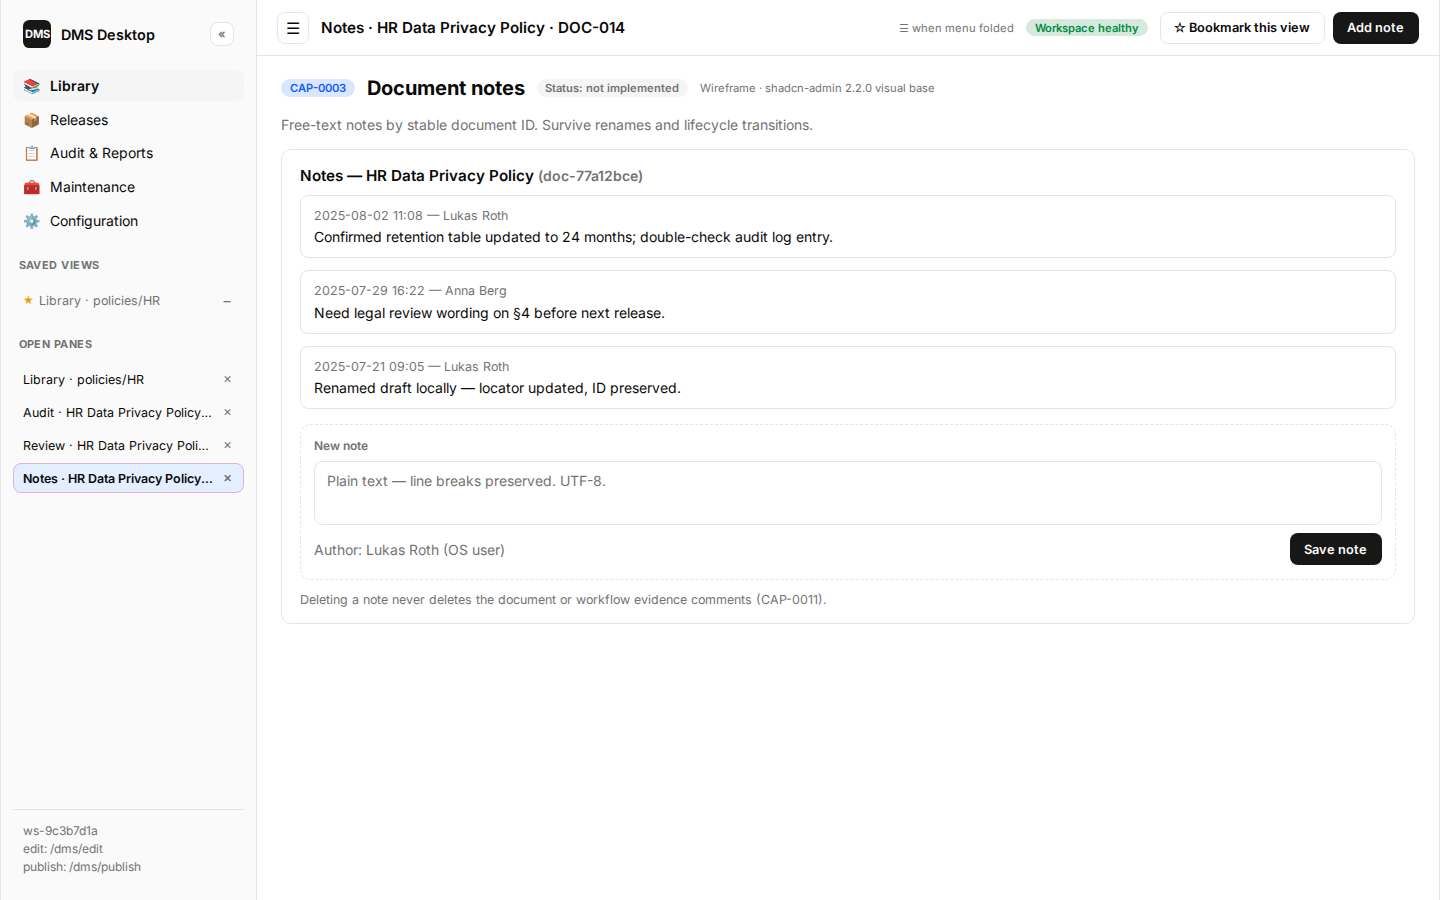
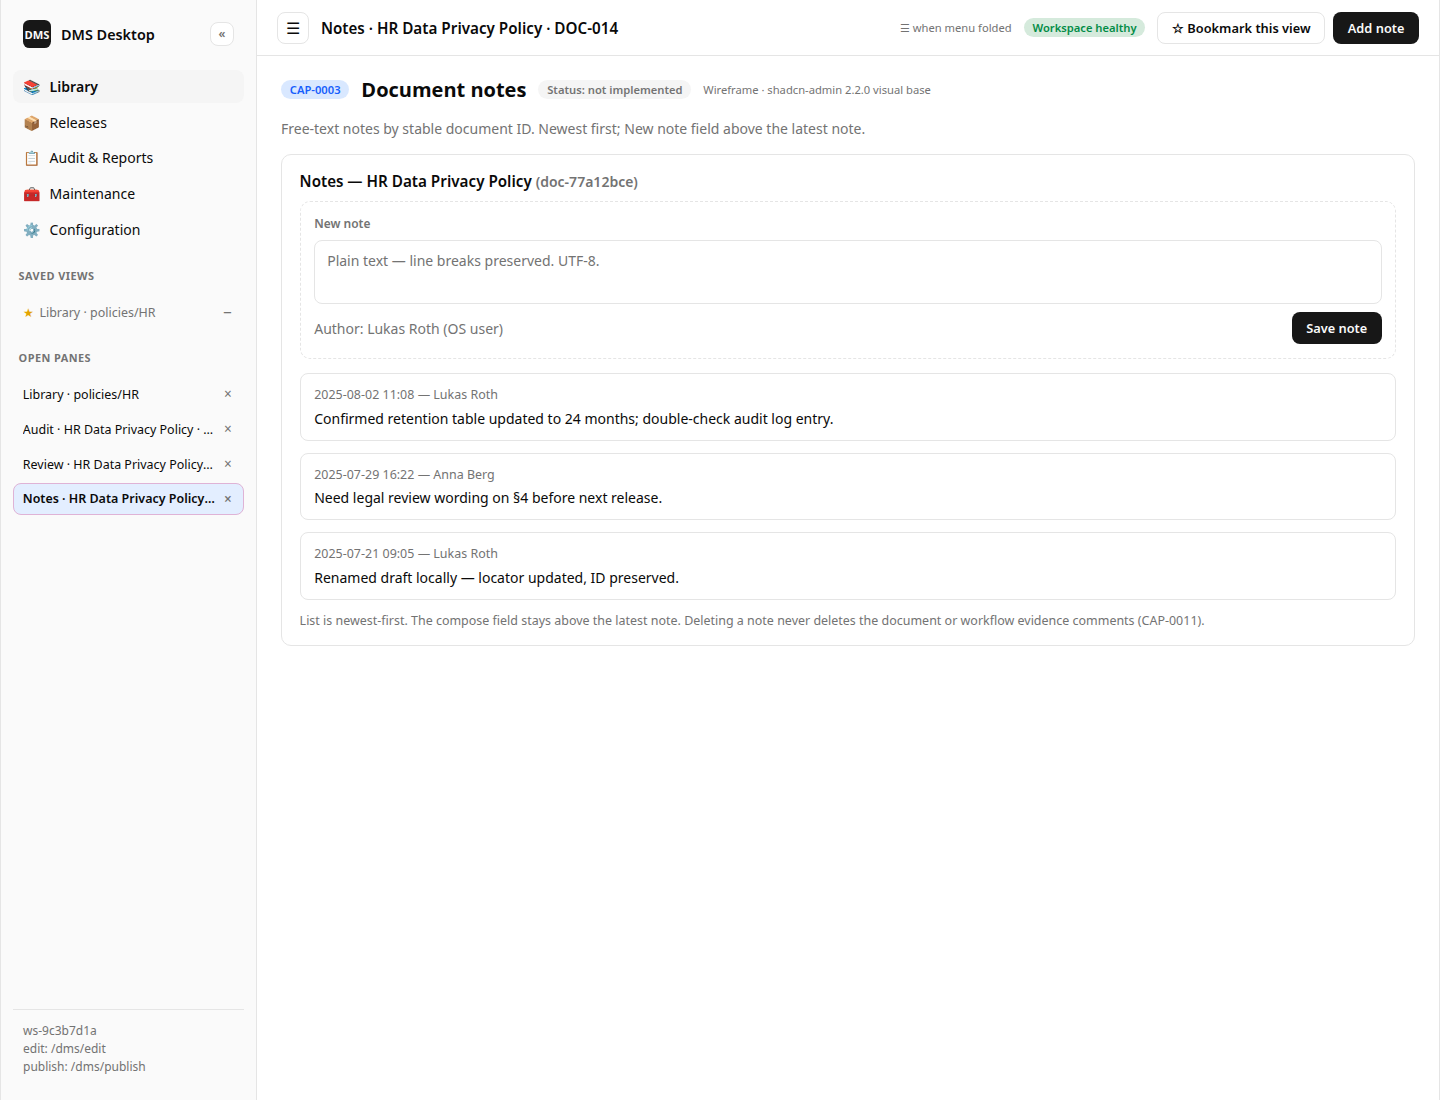
docs(product): put New note above latest note
Operators write without scrolling past existing notes. List stays
newest-first; compose field remains above the latest entry after save.

Updates CAP-0003, CHG-0001 phase 6, and the CAP-0003 wireframe.

diff --git a/docs/product/wireframes/html/CAP-0003-document-notes.html b/docs/product/wireframes/html/CAP-0003-document-notes.html
@@ -148,7 +148,7 @@ tr:last-child td { border-bottom: 0; }
 .note, .event, .layer, .type-card, .ver, .person { border: 1px solid var(--border); border-radius: calc(var(--radius) - 2px); padding: 0.75rem 0.85rem; }
 .note header, .event .row { font-size: 0.78rem; color: var(--muted-foreground); margin-bottom: 0.35rem; }
 .note p, .event p, .layer p, .type-card p, .ver p, .person p { margin: 0.15rem 0 0; font-size: 0.875rem; }
-.composer { margin-top: 0.9rem; border: 1px dashed var(--border); border-radius: var(--radius); padding: 0.85rem; display: flex; flex-direction: column; gap: 0.5rem; }
+.composer { margin: 0 0 0.9rem; border: 1px dashed var(--border); border-radius: var(--radius); padding: 0.85rem; display: flex; flex-direction: column; gap: 0.5rem; }
 .label { font-size: 0.75rem; font-weight: 600; color: var(--muted-foreground); }
 .textarea { min-height: 4rem; border: 1px solid var(--input); border-radius: calc(var(--radius) - 2px); padding: 0.6rem 0.75rem; color: var(--muted-foreground); font-size: 0.875rem; background: var(--background); }
 .tree-list { list-style: none; margin: 0; padding: 0; font-size: 0.875rem; }
@@ -226,15 +226,10 @@ tr:last-child td { border-bottom: 0; }
         <span class="badge muted">Status: not implemented</span>
         <span class="wire-meta">Wireframe · shadcn-admin 2.2.0 visual base</span>
       </div>
-      <p class="subtitle">Free-text notes by stable document ID. Survive renames and lifecycle transitions.</p>
+      <p class="subtitle">Free-text notes by stable document ID. Newest first; New note field above the latest note.</p>
       
       <section class="card">
         <h3 class="card-title">Notes — HR Data Privacy Policy <span class="muted">(doc-77a12bce)</span></h3>
-        <div class="stack">
-          <article class="note"><header>2025-08-02 11:08 — Lukas Roth</header><p>Confirmed retention table updated to 24 months; double-check audit log entry.</p></article>
-          <article class="note"><header>2025-07-29 16:22 — Anna Berg</header><p>Need legal review wording on §4 before next release.</p></article>
-          <article class="note"><header>2025-07-21 09:05 — Lukas Roth</header><p>Renamed draft locally — locator updated, ID preserved.</p></article>
-        </div>
         <div class="composer">
           <label class="label">New note</label>
           <div class="textarea">Plain text — line breaks preserved. UTF-8.</div>
@@ -243,7 +238,12 @@ tr:last-child td { border-bottom: 0; }
             <button class="btn">Save note</button>
           </div>
         </div>
-        <p class="hint">Deleting a note never deletes the document or workflow evidence comments (CAP-0011).</p>
+        <div class="stack">
+          <article class="note"><header>2025-08-02 11:08 — Lukas Roth</header><p>Confirmed retention table updated to 24 months; double-check audit log entry.</p></article>
+          <article class="note"><header>2025-07-29 16:22 — Anna Berg</header><p>Need legal review wording on §4 before next release.</p></article>
+          <article class="note"><header>2025-07-21 09:05 — Lukas Roth</header><p>Renamed draft locally — locator updated, ID preserved.</p></article>
+        </div>
+        <p class="hint">List is newest-first. The compose field stays above the latest note. Deleting a note never deletes the document or workflow evidence comments (CAP-0011).</p>
       </section>
     </main>
   </div>

diff --git a/docs/product/wireframes/html/CAP-0001-local-folder-dms.html b/docs/product/wireframes/html/CAP-0001-local-folder-dms.html
@@ -148,7 +148,7 @@ tr:last-child td { border-bottom: 0; }
 .note, .event, .layer, .type-card, .ver, .person { border: 1px solid var(--border); border-radius: calc(var(--radius) - 2px); padding: 0.75rem 0.85rem; }
 .note header, .event .row { font-size: 0.78rem; color: var(--muted-foreground); margin-bottom: 0.35rem; }
 .note p, .event p, .layer p, .type-card p, .ver p, .person p { margin: 0.15rem 0 0; font-size: 0.875rem; }
-.composer { margin-top: 0.9rem; border: 1px dashed var(--border); border-radius: var(--radius); padding: 0.85rem; display: flex; flex-direction: column; gap: 0.5rem; }
+.composer { margin: 0 0 0.9rem; border: 1px dashed var(--border); border-radius: var(--radius); padding: 0.85rem; display: flex; flex-direction: column; gap: 0.5rem; }
 .label { font-size: 0.75rem; font-weight: 600; color: var(--muted-foreground); }
 .textarea { min-height: 4rem; border: 1px solid var(--input); border-radius: calc(var(--radius) - 2px); padding: 0.6rem 0.75rem; color: var(--muted-foreground); font-size: 0.875rem; background: var(--background); }
 .tree-list { list-style: none; margin: 0; padding: 0; font-size: 0.875rem; }

diff --git a/docs/product/wireframes/html/CAP-0002-document-lifecycle.html b/docs/product/wireframes/html/CAP-0002-document-lifecycle.html
@@ -148,7 +148,7 @@ tr:last-child td { border-bottom: 0; }
 .note, .event, .layer, .type-card, .ver, .person { border: 1px solid var(--border); border-radius: calc(var(--radius) - 2px); padding: 0.75rem 0.85rem; }
 .note header, .event .row { font-size: 0.78rem; color: var(--muted-foreground); margin-bottom: 0.35rem; }
 .note p, .event p, .layer p, .type-card p, .ver p, .person p { margin: 0.15rem 0 0; font-size: 0.875rem; }
-.composer { margin-top: 0.9rem; border: 1px dashed var(--border); border-radius: var(--radius); padding: 0.85rem; display: flex; flex-direction: column; gap: 0.5rem; }
+.composer { margin: 0 0 0.9rem; border: 1px dashed var(--border); border-radius: var(--radius); padding: 0.85rem; display: flex; flex-direction: column; gap: 0.5rem; }
 .label { font-size: 0.75rem; font-weight: 600; color: var(--muted-foreground); }
 .textarea { min-height: 4rem; border: 1px solid var(--input); border-radius: calc(var(--radius) - 2px); padding: 0.6rem 0.75rem; color: var(--muted-foreground); font-size: 0.875rem; background: var(--background); }
 .tree-list { list-style: none; margin: 0; padding: 0; font-size: 0.875rem; }

diff --git a/docs/product/wireframes/html/CAP-0004-release-integrity.html b/docs/product/wireframes/html/CAP-0004-release-integrity.html
@@ -148,7 +148,7 @@ tr:last-child td { border-bottom: 0; }
 .note, .event, .layer, .type-card, .ver, .person { border: 1px solid var(--border); border-radius: calc(var(--radius) - 2px); padding: 0.75rem 0.85rem; }
 .note header, .event .row { font-size: 0.78rem; color: var(--muted-foreground); margin-bottom: 0.35rem; }
 .note p, .event p, .layer p, .type-card p, .ver p, .person p { margin: 0.15rem 0 0; font-size: 0.875rem; }
-.composer { margin-top: 0.9rem; border: 1px dashed var(--border); border-radius: var(--radius); padding: 0.85rem; display: flex; flex-direction: column; gap: 0.5rem; }
+.composer { margin: 0 0 0.9rem; border: 1px dashed var(--border); border-radius: var(--radius); padding: 0.85rem; display: flex; flex-direction: column; gap: 0.5rem; }
 .label { font-size: 0.75rem; font-weight: 600; color: var(--muted-foreground); }
 .textarea { min-height: 4rem; border: 1px solid var(--input); border-radius: calc(var(--radius) - 2px); padding: 0.6rem 0.75rem; color: var(--muted-foreground); font-size: 0.875rem; background: var(--background); }
 .tree-list { list-style: none; margin: 0; padding: 0; font-size: 0.875rem; }

diff --git a/docs/product/wireframes/html/CAP-0005-desktop-shell.html b/docs/product/wireframes/html/CAP-0005-desktop-shell.html
@@ -148,7 +148,7 @@ tr:last-child td { border-bottom: 0; }
 .note, .event, .layer, .type-card, .ver, .person { border: 1px solid var(--border); border-radius: calc(var(--radius) - 2px); padding: 0.75rem 0.85rem; }
 .note header, .event .row { font-size: 0.78rem; color: var(--muted-foreground); margin-bottom: 0.35rem; }
 .note p, .event p, .layer p, .type-card p, .ver p, .person p { margin: 0.15rem 0 0; font-size: 0.875rem; }
-.composer { margin-top: 0.9rem; border: 1px dashed var(--border); border-radius: var(--radius); padding: 0.85rem; display: flex; flex-direction: column; gap: 0.5rem; }
+.composer { margin: 0 0 0.9rem; border: 1px dashed var(--border); border-radius: var(--radius); padding: 0.85rem; display: flex; flex-direction: column; gap: 0.5rem; }
 .label { font-size: 0.75rem; font-weight: 600; color: var(--muted-foreground); }
 .textarea { min-height: 4rem; border: 1px solid var(--input); border-radius: calc(var(--radius) - 2px); padding: 0.6rem 0.75rem; color: var(--muted-foreground); font-size: 0.875rem; background: var(--background); }
 .tree-list { list-style: none; margin: 0; padding: 0; font-size: 0.875rem; }

diff --git a/docs/product/wireframes/html/CAP-0006-library-explorer.html b/docs/product/wireframes/html/CAP-0006-library-explorer.html
@@ -148,7 +148,7 @@ tr:last-child td { border-bottom: 0; }
 .note, .event, .layer, .type-card, .ver, .person { border: 1px solid var(--border); border-radius: calc(var(--radius) - 2px); padding: 0.75rem 0.85rem; }
 .note header, .event .row { font-size: 0.78rem; color: var(--muted-foreground); margin-bottom: 0.35rem; }
 .note p, .event p, .layer p, .type-card p, .ver p, .person p { margin: 0.15rem 0 0; font-size: 0.875rem; }
-.composer { margin-top: 0.9rem; border: 1px dashed var(--border); border-radius: var(--radius); padding: 0.85rem; display: flex; flex-direction: column; gap: 0.5rem; }
+.composer { margin: 0 0 0.9rem; border: 1px dashed var(--border); border-radius: var(--radius); padding: 0.85rem; display: flex; flex-direction: column; gap: 0.5rem; }
 .label { font-size: 0.75rem; font-weight: 600; color: var(--muted-foreground); }
 .textarea { min-height: 4rem; border: 1px solid var(--input); border-radius: calc(var(--radius) - 2px); padding: 0.6rem 0.75rem; color: var(--muted-foreground); font-size: 0.875rem; background: var(--background); }
 .tree-list { list-style: none; margin: 0; padding: 0; font-size: 0.875rem; }

diff --git a/docs/product/wireframes/html/CAP-0007-draft-pdf-export.html b/docs/product/wireframes/html/CAP-0007-draft-pdf-export.html
@@ -148,7 +148,7 @@ tr:last-child td { border-bottom: 0; }
 .note, .event, .layer, .type-card, .ver, .person { border: 1px solid var(--border); border-radius: calc(var(--radius) - 2px); padding: 0.75rem 0.85rem; }
 .note header, .event .row { font-size: 0.78rem; color: var(--muted-foreground); margin-bottom: 0.35rem; }
 .note p, .event p, .layer p, .type-card p, .ver p, .person p { margin: 0.15rem 0 0; font-size: 0.875rem; }
-.composer { margin-top: 0.9rem; border: 1px dashed var(--border); border-radius: var(--radius); padding: 0.85rem; display: flex; flex-direction: column; gap: 0.5rem; }
+.composer { margin: 0 0 0.9rem; border: 1px dashed var(--border); border-radius: var(--radius); padding: 0.85rem; display: flex; flex-direction: column; gap: 0.5rem; }
 .label { font-size: 0.75rem; font-weight: 600; color: var(--muted-foreground); }
 .textarea { min-height: 4rem; border: 1px solid var(--input); border-radius: calc(var(--radius) - 2px); padding: 0.6rem 0.75rem; color: var(--muted-foreground); font-size: 0.875rem; background: var(--background); }
 .tree-list { list-style: none; margin: 0; padding: 0; font-size: 0.875rem; }

diff --git a/docs/product/wireframes/html/CAP-0008-confidentiality-classification.html b/docs/product/wireframes/html/CAP-0008-confidentiality-classification.html
@@ -148,7 +148,7 @@ tr:last-child td { border-bottom: 0; }
 .note, .event, .layer, .type-card, .ver, .person { border: 1px solid var(--border); border-radius: calc(var(--radius) - 2px); padding: 0.75rem 0.85rem; }
 .note header, .event .row { font-size: 0.78rem; color: var(--muted-foreground); margin-bottom: 0.35rem; }
 .note p, .event p, .layer p, .type-card p, .ver p, .person p { margin: 0.15rem 0 0; font-size: 0.875rem; }
-.composer { margin-top: 0.9rem; border: 1px dashed var(--border); border-radius: var(--radius); padding: 0.85rem; display: flex; flex-direction: column; gap: 0.5rem; }
+.composer { margin: 0 0 0.9rem; border: 1px dashed var(--border); border-radius: var(--radius); padding: 0.85rem; display: flex; flex-direction: column; gap: 0.5rem; }
 .label { font-size: 0.75rem; font-weight: 600; color: var(--muted-foreground); }
 .textarea { min-height: 4rem; border: 1px solid var(--input); border-radius: calc(var(--radius) - 2px); padding: 0.6rem 0.75rem; color: var(--muted-foreground); font-size: 0.875rem; background: var(--background); }
 .tree-list { list-style: none; margin: 0; padding: 0; font-size: 0.875rem; }

diff --git a/docs/product/wireframes/html/CAP-0009-release-editor.html b/docs/product/wireframes/html/CAP-0009-release-editor.html
@@ -148,7 +148,7 @@ tr:last-child td { border-bottom: 0; }
 .note, .event, .layer, .type-card, .ver, .person { border: 1px solid var(--border); border-radius: calc(var(--radius) - 2px); padding: 0.75rem 0.85rem; }
 .note header, .event .row { font-size: 0.78rem; color: var(--muted-foreground); margin-bottom: 0.35rem; }
 .note p, .event p, .layer p, .type-card p, .ver p, .person p { margin: 0.15rem 0 0; font-size: 0.875rem; }
-.composer { margin-top: 0.9rem; border: 1px dashed var(--border); border-radius: var(--radius); padding: 0.85rem; display: flex; flex-direction: column; gap: 0.5rem; }
+.composer { margin: 0 0 0.9rem; border: 1px dashed var(--border); border-radius: var(--radius); padding: 0.85rem; display: flex; flex-direction: column; gap: 0.5rem; }
 .label { font-size: 0.75rem; font-weight: 600; color: var(--muted-foreground); }
 .textarea { min-height: 4rem; border: 1px solid var(--input); border-radius: calc(var(--radius) - 2px); padding: 0.6rem 0.75rem; color: var(--muted-foreground); font-size: 0.875rem; background: var(--background); }
 .tree-list { list-style: none; margin: 0; padding: 0; font-size: 0.875rem; }

diff --git a/docs/product/wireframes/html/CAP-0010-notification-transport.html b/docs/product/wireframes/html/CAP-0010-notification-transport.html
@@ -148,7 +148,7 @@ tr:last-child td { border-bottom: 0; }
 .note, .event, .layer, .type-card, .ver, .person { border: 1px solid var(--border); border-radius: calc(var(--radius) - 2px); padding: 0.75rem 0.85rem; }
 .note header, .event .row { font-size: 0.78rem; color: var(--muted-foreground); margin-bottom: 0.35rem; }
 .note p, .event p, .layer p, .type-card p, .ver p, .person p { margin: 0.15rem 0 0; font-size: 0.875rem; }
-.composer { margin-top: 0.9rem; border: 1px dashed var(--border); border-radius: var(--radius); padding: 0.85rem; display: flex; flex-direction: column; gap: 0.5rem; }
+.composer { margin: 0 0 0.9rem; border: 1px dashed var(--border); border-radius: var(--radius); padding: 0.85rem; display: flex; flex-direction: column; gap: 0.5rem; }
 .label { font-size: 0.75rem; font-weight: 600; color: var(--muted-foreground); }
 .textarea { min-height: 4rem; border: 1px solid var(--input); border-radius: calc(var(--radius) - 2px); padding: 0.6rem 0.75rem; color: var(--muted-foreground); font-size: 0.875rem; background: var(--background); }
 .tree-list { list-style: none; margin: 0; padding: 0; font-size: 0.875rem; }

diff --git a/docs/product/wireframes/html/CAP-0011-approval-evidence.html b/docs/product/wireframes/html/CAP-0011-approval-evidence.html
@@ -148,7 +148,7 @@ tr:last-child td { border-bottom: 0; }
 .note, .event, .layer, .type-card, .ver, .person { border: 1px solid var(--border); border-radius: calc(var(--radius) - 2px); padding: 0.75rem 0.85rem; }
 .note header, .event .row { font-size: 0.78rem; color: var(--muted-foreground); margin-bottom: 0.35rem; }
 .note p, .event p, .layer p, .type-card p, .ver p, .person p { margin: 0.15rem 0 0; font-size: 0.875rem; }
-.composer { margin-top: 0.9rem; border: 1px dashed var(--border); border-radius: var(--radius); padding: 0.85rem; display: flex; flex-direction: column; gap: 0.5rem; }
+.composer { margin: 0 0 0.9rem; border: 1px dashed var(--border); border-radius: var(--radius); padding: 0.85rem; display: flex; flex-direction: column; gap: 0.5rem; }
 .label { font-size: 0.75rem; font-weight: 600; color: var(--muted-foreground); }
 .textarea { min-height: 4rem; border: 1px solid var(--input); border-radius: calc(var(--radius) - 2px); padding: 0.6rem 0.75rem; color: var(--muted-foreground); font-size: 0.875rem; background: var(--background); }
 .tree-list { list-style: none; margin: 0; padding: 0; font-size: 0.875rem; }

diff --git a/docs/product/wireframes/html/CAP-0012-audit-export.html b/docs/product/wireframes/html/CAP-0012-audit-export.html
@@ -148,7 +148,7 @@ tr:last-child td { border-bottom: 0; }
 .note, .event, .layer, .type-card, .ver, .person { border: 1px solid var(--border); border-radius: calc(var(--radius) - 2px); padding: 0.75rem 0.85rem; }
 .note header, .event .row { font-size: 0.78rem; color: var(--muted-foreground); margin-bottom: 0.35rem; }
 .note p, .event p, .layer p, .type-card p, .ver p, .person p { margin: 0.15rem 0 0; font-size: 0.875rem; }
-.composer { margin-top: 0.9rem; border: 1px dashed var(--border); border-radius: var(--radius); padding: 0.85rem; display: flex; flex-direction: column; gap: 0.5rem; }
+.composer { margin: 0 0 0.9rem; border: 1px dashed var(--border); border-radius: var(--radius); padding: 0.85rem; display: flex; flex-direction: column; gap: 0.5rem; }
 .label { font-size: 0.75rem; font-weight: 600; color: var(--muted-foreground); }
 .textarea { min-height: 4rem; border: 1px solid var(--input); border-radius: calc(var(--radius) - 2px); padding: 0.6rem 0.75rem; color: var(--muted-foreground); font-size: 0.875rem; background: var(--background); }
 .tree-list { list-style: none; margin: 0; padding: 0; font-size: 0.875rem; }
